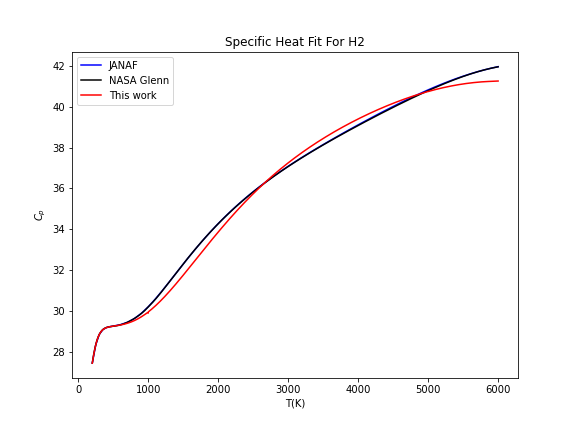
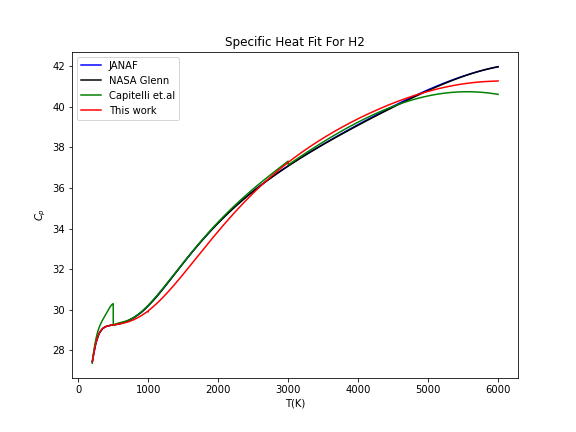
Add Capitelli data for H2

diff --git a/Cp.py b/Cp.py
@@ -253,7 +253,7 @@ def get_JANAF():
 # Generate a dictionary storing the specific heat fit coefficients from Capitelli
 def get_Capitelli(): 
     Capitelli=np.loadtxt("Other_Cp/Capitelli_fit.csv",delimiter=",",usecols=(3,4,5,6,7,8,9))
-    Capitelli_specials=['CO','CO2','N2','NO','NO+','NO2','N2O','O2','O3']
+    Capitelli_specials=['CO','CO2','N2','NO','NO+','NO2','N2O','O2','O3','H2']
     coe_Capitelli=dict()
     for i in range(len(Capitelli_specials)):
         n=i*3
@@ -512,15 +512,18 @@ def compare_and_plot_Cp(Cp_dict,Tmax_dict,Cp_JANAF,coe_Capitelli,coe_nasa,coe_Bu
 
         if species in coe_Capitelli:
             other_data=True
+            T_middle=1000
+            if species =='H2':
+                T_middle=500
             if Tmax<=1000:
                 x_Ca=np.arange(Tmin, Tmax+1., 1.0)
                 coefficient_Ca=coe_Capitelli[species][0]
                 Cp_fit_Ca=get_polynomial_results(coefficient_Ca,x_Ca)
             else:
-                x_Ca1=np.arange(Tmin, 1000, 1.0)
+                x_Ca1=np.arange(Tmin, T_middle, 1.0)
                 coefficient_Ca1=coe_Capitelli[species][0]
                 Cp_fit_Ca1=get_polynomial_results(coefficient_Ca1,x_Ca1)
-                x_Ca2=np.arange(1000, 3000, 1.0)
+                x_Ca2=np.arange(T_middle, 3000, 1.0)
                 coefficient_Ca2=coe_Capitelli[species][1]
                 Cp_fit_Ca2=get_polynomial_results(coefficient_Ca2,x_Ca2)
                 x_Ca3=np.arange(3000, Tmax+1., 1.0)
